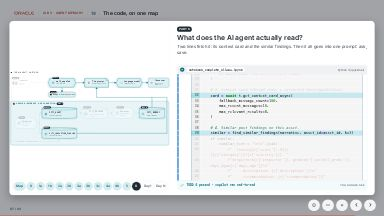
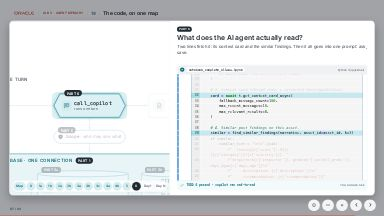
Lab 3 map, colleague's canvas comments: Part 1 lights only the database lane (every node pale), 2b keeps the view on Part 2, 3b zooms on the messages and the extractor, Parts 5 and 6 each light only themselves and zoom

diff --git a/src/content/lab3Map.ts b/src/content/lab3Map.ts
@@ -43,6 +43,8 @@ export interface MapStep {
   /** the lit nodes; none: everything at full strength */
   nodes?: MapNode[];
   lines: MapLine[];
+  /** the Oracle AI Database lane itself is the subject (Part 1): it lights while every node in it stays pale */
+  lane?: boolean;
   /** the person on the Inspector card on this step */
   who?: 'mercer' | 'vance';
   code?: CodeSection & { extra?: string };
@@ -56,19 +58,19 @@ export const MAP_STEPS: MapStep[] = [
   { title: 'Open the notebook', rail: '0', tag: 'PART 0', guide: 'file', cam: { s: 0.82, cx: 960, cy: 545 }, ask: 'First, open the notebook.', plain: 'In the file list, open agent_memory and double-click notebook_complete_ollama.ipynb.', lines: [] },
   { title: 'Open the notebook', rail: '0', tag: 'PART 0', guide: 'code', cam: { s: 0.82, cx: 960, cy: 545 }, ask: 'This is where the code is.', plain: 'Each box is a cell. Click inside one to select it: the blue bar on its left shows which cell you are on.', lines: [] },
   { title: 'Open the notebook', rail: '0', tag: 'PART 0', guide: 'run', cam: { s: 0.82, cx: 960, cy: 545 }, ask: 'Run the cell.', plain: 'Click Run, or press Shift + Enter. The cell runs and the next one is selected.', lines: [] },
-  { title: 'Oracle setup', rail: '1a', tag: 'PART 1', cam: { s: 0.5, cx: 960, cy: 710 }, ask: 'Where does everything live?', plain: 'One filing room, not five. These few settings name the database, the embedding model and the language model.', see: 'Config ready: db=prism@aidbfree:1521/FREEPDB1  |  onnx=ALL_MINILM_L12_V2  |  llm=llama3.2  |  narratives=4', nodes: ['embedder', 'message', 'extractor', 'memory', 'finding', 'asset'], lines: [], code: { cell: 6, from: '# Oracle AI Database 26ai', to: 'OLLAMA_MODEL    =', keys: ['DB_USER     =', 'DB_DSN      =', 'ONNX_MODEL  =', 'OLLAMA_BASE_URL =', 'OLLAMA_MODEL    ='], out: 'Config ready' } },
-  { title: 'Oracle setup', rail: '1b', tag: 'PART 1', cam: { s: 0.5, cx: 960, cy: 710 }, ask: 'Did it connect to the database?', plain: 'One connection opens the database. If you see this line, you are in, and everything after this uses the same connection.', see: 'Connected - using user prism', nodes: ['embedder', 'message', 'extractor', 'memory', 'finding', 'asset'], lines: [], code: { cell: 6, from: 'def connect_to_oracle', to: 'ok(f"Connected', keys: ['return oracledb.connect', 'vector_conn = connect_to_oracle', 'ok(f"Connected'], out: 'Connected - using user' } },
+  { title: 'Oracle setup', rail: '1a', tag: 'PART 1', cam: { s: 0.5, cx: 960, cy: 710 }, ask: 'Where does everything live?', plain: 'One filing room, not five. These few settings name the database, the embedding model and the language model.', see: 'Config ready: db=prism@aidbfree:1521/FREEPDB1  |  onnx=ALL_MINILM_L12_V2  |  llm=llama3.2  |  narratives=4', nodes: [], lane: true, lines: [], code: { cell: 6, from: '# Oracle AI Database 26ai', to: 'OLLAMA_MODEL    =', keys: ['DB_USER     =', 'DB_DSN      =', 'ONNX_MODEL  =', 'OLLAMA_BASE_URL =', 'OLLAMA_MODEL    ='], out: 'Config ready' } },
+  { title: 'Oracle setup', rail: '1b', tag: 'PART 1', cam: { s: 0.5, cx: 960, cy: 710 }, ask: 'Did it connect to the database?', plain: 'One connection opens the database. If you see this line, you are in, and everything after this uses the same connection.', see: 'Connected - using user prism', nodes: [], lane: true, lines: [], code: { cell: 6, from: 'def connect_to_oracle', to: 'ok(f"Connected', keys: ['return oracledb.connect', 'vector_conn = connect_to_oracle', 'ok(f"Connected'], out: 'Connected - using user' } },
   { title: 'The embedder', rail: '2a', tag: 'PART 2', cam: { s: 1.0, cx: 440, cy: 720 }, ask: 'How do you search by meaning?', plain: 'Text becomes 384 numbers, like an address on a map of meaning. Reports that mean the same thing land close together.', see: 'TODO 1 passed - embedder returns float32 ((1, 384)) arrays', nodes: ['embedder'], lines: ['o', 'q', 'u'], code: { cell: 12, from: 'def embed(self', to: 'return np.asarray', keys: ['vectors = self.provider', 'return np.asarray'], out: 'TODO 1 passed' } },
-  { title: 'The memory SDK', rail: '2b', tag: 'PART 2', cam: { s: 0.62, cx: 1250, cy: 620 }, ask: 'Who keeps the memory?', plain: 'The memory SDK sits on that same connection and sets up its own tables, with the embedder doing the numbers.', see: 'OracleAgentMemory ready. Tables under prefix CITY_*', nodes: ['message', 'extractor', 'memory'], lines: [], code: { cell: 14, from: 'memory = OracleAgentMemory(', to: 'table_name_prefix', keys: ['connection=vector_conn', 'extract_memories=True', 'table_name_prefix'], out: 'OracleAgentMemory ready' } },
+  { title: 'The memory SDK', rail: '2b', tag: 'PART 2', cam: { s: 1.0, cx: 440, cy: 720 }, ask: 'Who keeps the memory?', plain: 'The memory SDK sits on that same connection and sets up its own tables, with the embedder doing the numbers.', see: 'OracleAgentMemory ready. Tables under prefix CITY_*', nodes: ['embedder'], lines: [], code: { cell: 14, from: 'memory = OracleAgentMemory(', to: 'table_name_prefix', keys: ['connection=vector_conn', 'extract_memories=True', 'table_name_prefix'], out: 'OracleAgentMemory ready' } },
   // Part 3 is three clicks (owner, 4 Nov): the asset table, the extraction (its picture first, then the code), the memory it writes
   { title: 'City assets', rail: '3a', tag: 'PART 3a', cam: { s: 1.0, cx: 560, cy: 640 }, ask: 'Which assets are we talking about?', plain: 'Before any memory, the AI agent needs to know what exists. The code reads two data files and finds 26 city assets, Harbor Bridge among them.', see: 'Loaded 308 maintenance logs, 60 inspection reports. Discovered 26 unique assets.', nodes: ['asset'], lines: [], code: { cell: 17, from: '_data_dir = Path(', to: 'print(f"Discovered', keys: [], all: true, out: ['Loaded', 'Discovered'] } },
   { title: 'Auto-extraction', rail: '3b', tag: 'PART 3b', guide: 'extract', cam: { s: 0.82, cx: 960, cy: 545 }, ask: 'What happens to a new message?', plain: 'It is filed word for word in CITY_MESSAGE. The extractor reads it, with the running thread summary and the past memories, and writes 2 to 8 small typed records into CITY_MEMORY.', lines: [] },
-  { title: 'Auto-extraction', rail: '3b', tag: 'PART 3b', cam: { s: 0.8, cx: 1326, cy: 620 }, ask: 'How does a report get filed?', plain: 'Two lines do it: build the content string, then add_messages_async. Saving the message is also what starts the extractor.', see: "TODO 2 passed - added message(s): ['b9dc2ca1-f704-4756-9c42-c3d59bea58f4']", nodes: ['message', 'extractor', 'memory'], lines: ['g', 'h'], code: { cell: 20, from: 'content = f"[Asset', to: 'add_messages_async([Message(role="user", content=content)', keys: ['content = f"[Asset', 'add_messages_async([Message(role="user", content=content)'], out: 'TODO 2 passed' } },
+  { title: 'Auto-extraction', rail: '3b', tag: 'PART 3b', cam: { s: 1.05, cx: 1160, cy: 610 }, ask: 'How does a report get filed?', plain: 'Two lines do it: build the content string, then add_messages_async. Saving the message is also what starts the extractor.', see: "TODO 2 passed - added message(s): ['b9dc2ca1-f704-4756-9c42-c3d59bea58f4']", nodes: ['message', 'extractor'], lines: ['g', 'h'], code: { cell: 20, from: 'content = f"[Asset', to: 'add_messages_async([Message(role="user", content=content)', keys: ['content = f"[Asset', 'add_messages_async([Message(role="user", content=content)'], out: 'TODO 2 passed' } },
   { title: 'Finding a memory', rail: '3c', tag: 'PART 3c', cam: { s: 1.1, cx: 1560, cy: 600 }, ask: 'Why did the search come back empty?', plain: 'A memory belongs to whoever wrote it. Search with no name and you get nothing. Give the right name and the cards light up.', see: 'TODO 3 passed - 14 memories extracted from 4 narratives', nodes: ['memory'], lines: [], code: { cell: 28, from: 'results = await', to: 'max_results', keys: ['user_id="inspector_demo"'], out: 'TODO 3 passed' } },
   { title: 'The official record', rail: '4a', tag: 'PART 4', cam: { s: 0.9, cx: 460, cy: 790 }, ask: 'What is a finding, if it is not a memory?', plain: 'A memory is what the AI agent noticed. A finding is what a person signed. It gets its own table, and its description becomes numbers too.', see: 'TODO 4 passed - finding_id=2e80d8fa-551', nodes: ['finding', 'embedder'], lines: ['o', 'q'], code: { cell: 37, from: 'finding_id = str(uuid', to: 'vec = array', keys: ['vec = array'] } },
   { title: 'Search with walls', rail: '4b', tag: 'PART 4', cam: { s: 1.0, cx: 640, cy: 800 }, ask: 'Nearest in meaning, but only this bridge?', plain: 'One SQL statement does both: the closest in meaning, inside the walls of this asset and this category.', see: 'TODO 5 passed - broad=5, asset-filtered=5, category-filtered=4', nodes: ['finding'], lines: [], code: { cell: 41, from: 'SELECT finding_id', to: 'FETCH FIRST', keys: ['VECTOR_DISTANCE', 'WHERE (:asset_id', 'AND (:category'] } },
-  { title: 'Who sees what', rail: '5', tag: 'PART 5', cam: { s: 0.62, cx: 1060, cy: 500 }, ask: 'Why can Vance not read Mercer’s private note?', plain: 'Each inspector has a private thread. What the extractor learns goes on a shelf for the asset. The database enforces this, not the AI agent.', see: "Multi-tenancy verified: Vance sees city-wide guidelines but NOT Mercer's personal notes.", nodes: ['scope', 'copilot', 'message', 'memory'], lines: ['e', 'f'], code: { cell: 54, extra: 'thread_id = f"', from: 'pooled = await', to: 'max_results=3', keys: ['thread_id = f"', 'user_id=asset_id', 'exact_thread_match'] } },
-  { title: 'One whole turn', rail: '6', tag: 'PART 6', cam: { s: 0.46, cx: 960, cy: 545 }, ask: 'What does the AI agent actually read?', plain: 'Two lines fetch it: its context card and the similar findings. Then it all goes into one prompt: ask, save.', see: 'TODO 6 passed - copilot ran end-to-end', nodes: ['copilot', 'scope', 'prompt', 'model', 'answer', 'memory', 'finding', 'asset'], lines: ['b', 'c', 'd', 'read', 'n', 'l', 'e'], code: { cell: 54, from: 'card = await', to: 'similar = find_similar', keys: ['card = await', 'similar = find_similar'], out: 'TODO 6 passed' } },
+  { title: 'Who sees what', rail: '5', tag: 'PART 5', cam: { s: 1.1, cx: 660, cy: 410 }, ask: 'Why can Vance not read Mercer’s private note?', plain: 'Each inspector has a private thread. What the extractor learns goes on a shelf for the asset. The database enforces this, not the AI agent.', see: "Multi-tenancy verified: Vance sees city-wide guidelines but NOT Mercer's personal notes.", nodes: ['scope'], lines: ['e', 'f'], code: { cell: 54, extra: 'thread_id = f"', from: 'pooled = await', to: 'max_results=3', keys: ['thread_id = f"', 'user_id=asset_id', 'exact_thread_match'] } },
+  { title: 'One whole turn', rail: '6', tag: 'PART 6', cam: { s: 1.2, cx: 660, cy: 280 }, ask: 'What does the AI agent actually read?', plain: 'Two lines fetch it: its context card and the similar findings. Then it all goes into one prompt: ask, save.', see: 'TODO 6 passed - copilot ran end-to-end', nodes: ['copilot'], lines: [], code: { cell: 54, from: 'card = await', to: 'similar = find_similar', keys: ['card = await', 'similar = find_similar'], out: 'TODO 6 passed' } },
   { title: 'Day 1: Mercer', rail: 'Day 1', tag: 'DAY 1', cam: ALL, ask: 'Mercer leaves two things behind.', plain: 'Her turn is saved and the extractor keeps what matters. Then, once she is sure, she signs the finding herself: a separate path.', see: 'Logged finding fcd664d7-d5d - now searchable by future call_copilot invocations.', who: 'mercer', nodes: ['inspector', 'copilot', 'scope', 'message', 'extractor', 'memory', 'finding'], lines: ['a', 'e', 'f', 'g', 'h', 'confirm'], code: { cell: 59, from: 'MERCER_FINDING_ID = log_finding(', to: 'days_ago=0', keys: ['log_finding(', 'category="corrosion"', 'severity="medium"', 'overall_grade="C"'], out: 'Logged finding' } },
   { title: 'Later: Vance', rail: 'Day N', tag: 'DAY N', cam: ALL, ask: 'Vance asks, and Mercer’s work reaches him.', plain: 'He only calls call_copilot. His own thread is empty, but the asset’s memory and her finding come up the same road. No human handoff.', see: 'DAY N: Inspector Vance on Harbor Bridge (never met Mercer)', who: 'vance', nodes: ['inspector', 'copilot', 'scope', 'prompt', 'model', 'answer', 'memory', 'finding', 'asset'], lines: ['a', 'e', 'read', 'l', 'n', 'b', 'c', 'd'], code: { cell: 64, from: 'VANCE_DIAGNOSIS = await', to: 'asset_id="Harbor Bridge"', keys: ['VANCE_DIAGNOSIS = await', 'inspector_id="Jordan_Vance"', 'asset_id="Harbor Bridge"'], out: 'DAY N:' } },
 ];

diff --git a/tests/overlay/CodeMap.test.tsx b/tests/overlay/CodeMap.test.tsx
@@ -236,3 +236,36 @@ test('each kind of node looks like what it is: tables are cylinders, steps that 
   expect(shape('answer')).toBe('card');
   for (const id of ['asset', 'message', 'embedder']) expect(container.querySelector(`[data-node="${id}"] svg.cm__shape path`)).toBeTruthy();
 });
+
+// the colleague's comments on the canvas, 5 Nov: each click lights only what it is about, everything else stays pale
+test('each click lights only its own part: the database lane for Part 1, then one part at a time', () => {
+  const { container } = render(<CodeMap />);
+  const lit = () => [...container.querySelectorAll('.cm__node.is-on')].map((e) => e.getAttribute('data-node')).sort();
+  const lane = () => !!container.querySelector('.cm__db.is-on');
+  // Part 1: the lane lights, no node in it is lit yet (they are not mentioned yet)
+  for (const i of [4, 5]) {
+    go(i);
+    expect(lit(), MAP_STEPS[i].rail).toEqual([]);
+    expect(lane()).toBe(true);
+    expect(container.querySelectorAll('.cm__node.is-off').length).toBeGreaterThanOrEqual(11);
+  }
+  // Part 2: the embedder, and the picture stays on it through 2b
+  go(6);
+  expect(lit()).toEqual(['embedder']);
+  expect(lane()).toBe(false);
+  expect(MAP_STEPS[7].cam).toEqual(MAP_STEPS[6].cam);
+  go(7);
+  expect(lit()).toEqual(['embedder']);
+  // 3b (code): zoomed on the messages and the extractor, the memory stays pale
+  go(10);
+  expect(lit()).toEqual(['extractor', 'message']);
+  expect(container.querySelector('[data-node="memory"]')!.classList.contains('is-off')).toBe(true);
+  expect(MAP_STEPS[10].cam.s).toBeGreaterThan(1);
+  // Part 5: only the scope; Part 6: only call_copilot, zoomed
+  go(14);
+  expect(lit()).toEqual(['scope']);
+  go(15);
+  expect(lit()).toEqual(['copilot']);
+  expect(MAP_STEPS[15].cam.s).toBeGreaterThan(1);
+});
+

diff --git a/src/overlay/concepts/codeMap.css b/src/overlay/concepts/codeMap.css
@@ -2,6 +2,8 @@
 .cm { position: relative; width: 1824px; height: 870px; background: #fff; border: 1px solid #dce2e8; border-radius: 20px; overflow: hidden; color: #1f2a33; font-family: var(--font-sans, Inter, system-ui, sans-serif); box-shadow: 0 18px 50px rgba(11, 14, 20, 0.28); transform-origin: 50% 0; }
 .cm__world { position: absolute; left: -48px; top: -110px; width: 1920px; height: 1080px; transform-origin: 0 0; transition: transform 1.4s cubic-bezier(0.45, 0.05, 0.2, 1); will-change: transform; }
 .cm__db { position: absolute; left: 96px; top: 470px; width: 1728px; height: 480px; box-sizing: border-box; background: #e8f4f6; border: 2px solid #1b8a9c; border-radius: 20px; }
+.cm__db { transition: border-color 0.6s ease, box-shadow 0.6s ease, background-color 0.6s ease; }
+.cm__db.is-on { border-color: #1b8a9c; background: #dbeef1; box-shadow: 0 0 0 8px rgba(27, 138, 156, 0.18); }
 .cm__lane { position: absolute; display: flex; align-items: center; gap: 12px; font-size: 18px; font-weight: 700; letter-spacing: 0.08em; }
 .cm__node { position: absolute; box-sizing: border-box; padding: 0 16px; display: flex; align-items: center; gap: 14px; border-radius: 14px; background: #fff; border: 2.5px solid #c9d2da; box-shadow: 0 2px 6px rgba(31, 42, 51, 0.08); transition: opacity 0.6s ease, border-color 0.6s ease, background-color 0.6s ease, box-shadow 0.6s ease; }
 .cm__node.is-teal { border-color: #1b8a9c; }

diff --git a/src/overlay/concepts/CodeMap.tsx b/src/overlay/concepts/CodeMap.tsx
@@ -164,7 +164,7 @@ function TheMap({ step }: { step: MapStep }) {
   const dim = !!step.nodes;
   return (
     <div className="cm__world" data-testid="code-map-world" style={{ transform: `translate(${cam.x}px, ${cam.y}px) scale(${step.cam.s})` }}>
-      <div className="cm__db" />
+      <div className={`cm__db${step.lane ? ' is-on' : ''}`} data-lane-on={step.lane || undefined} />
       <svg className="cm__lines" width="1920" height="1080" viewBox="0 0 1920 1080" aria-hidden="true">
         <defs>
           {[['grey', '#7C8B98'], ['teal', '#1B8A9C'], ['dim', '#C9D2DA']].map(([k, c]) => (
